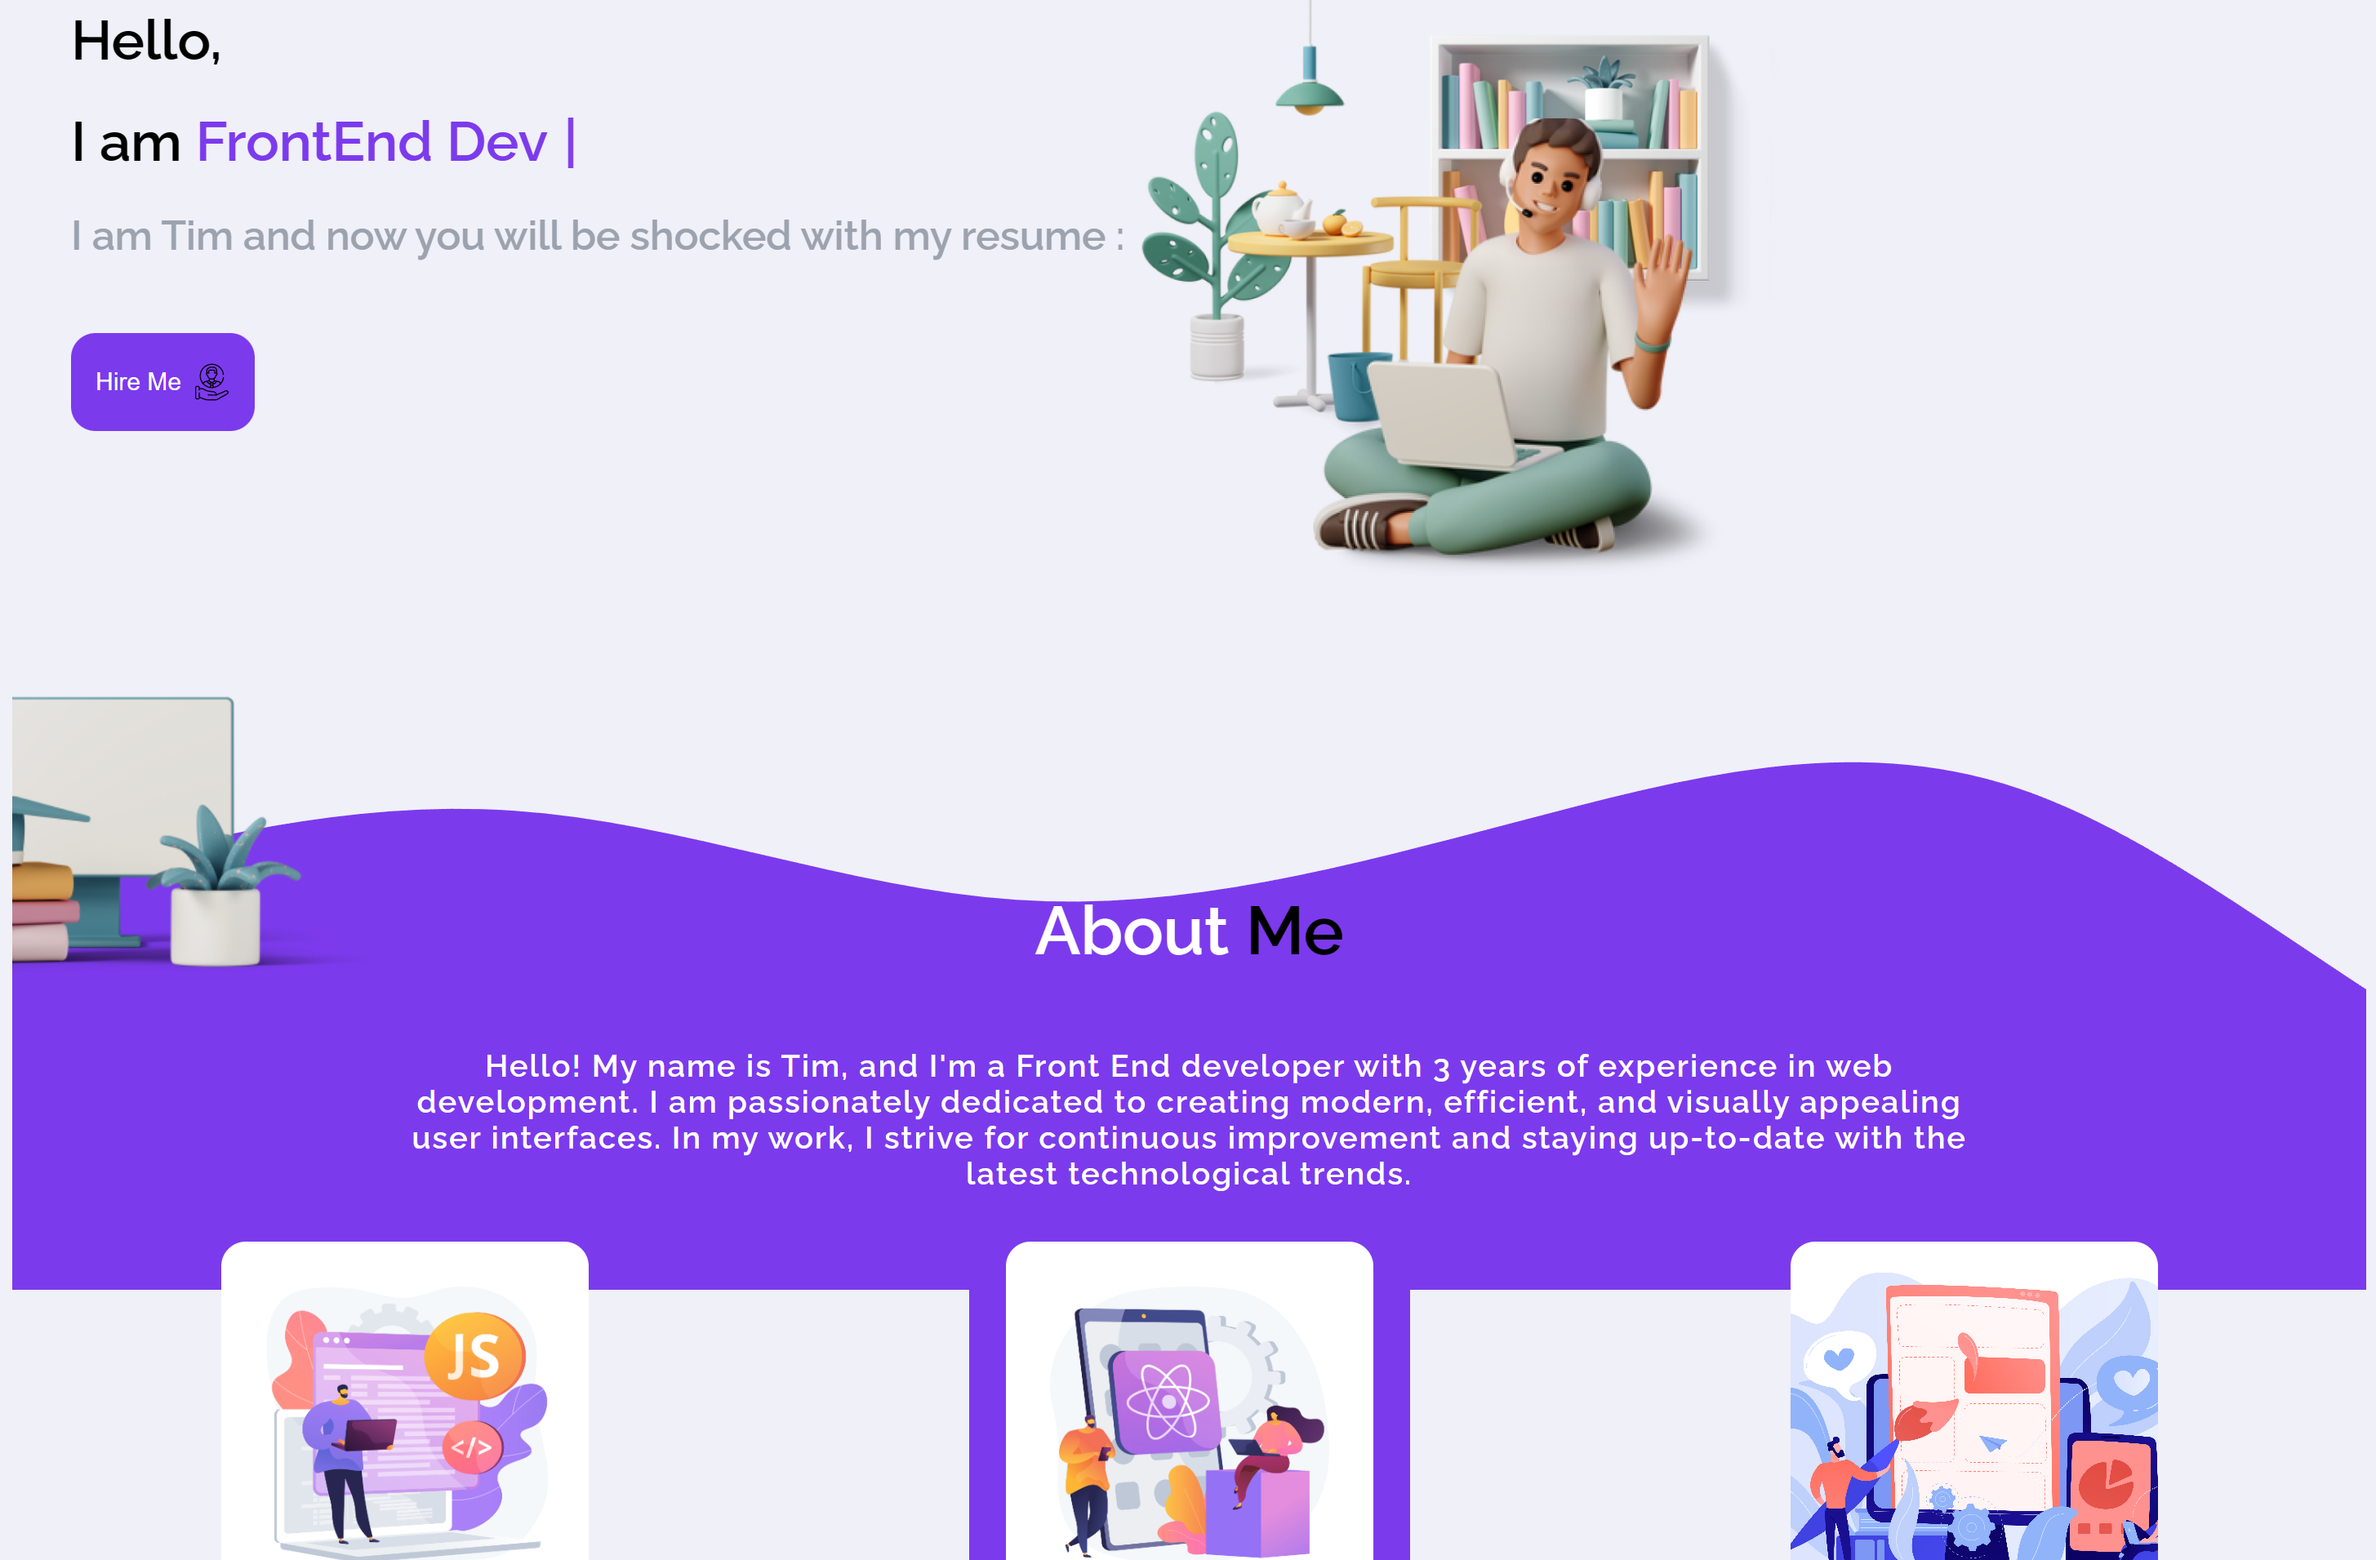
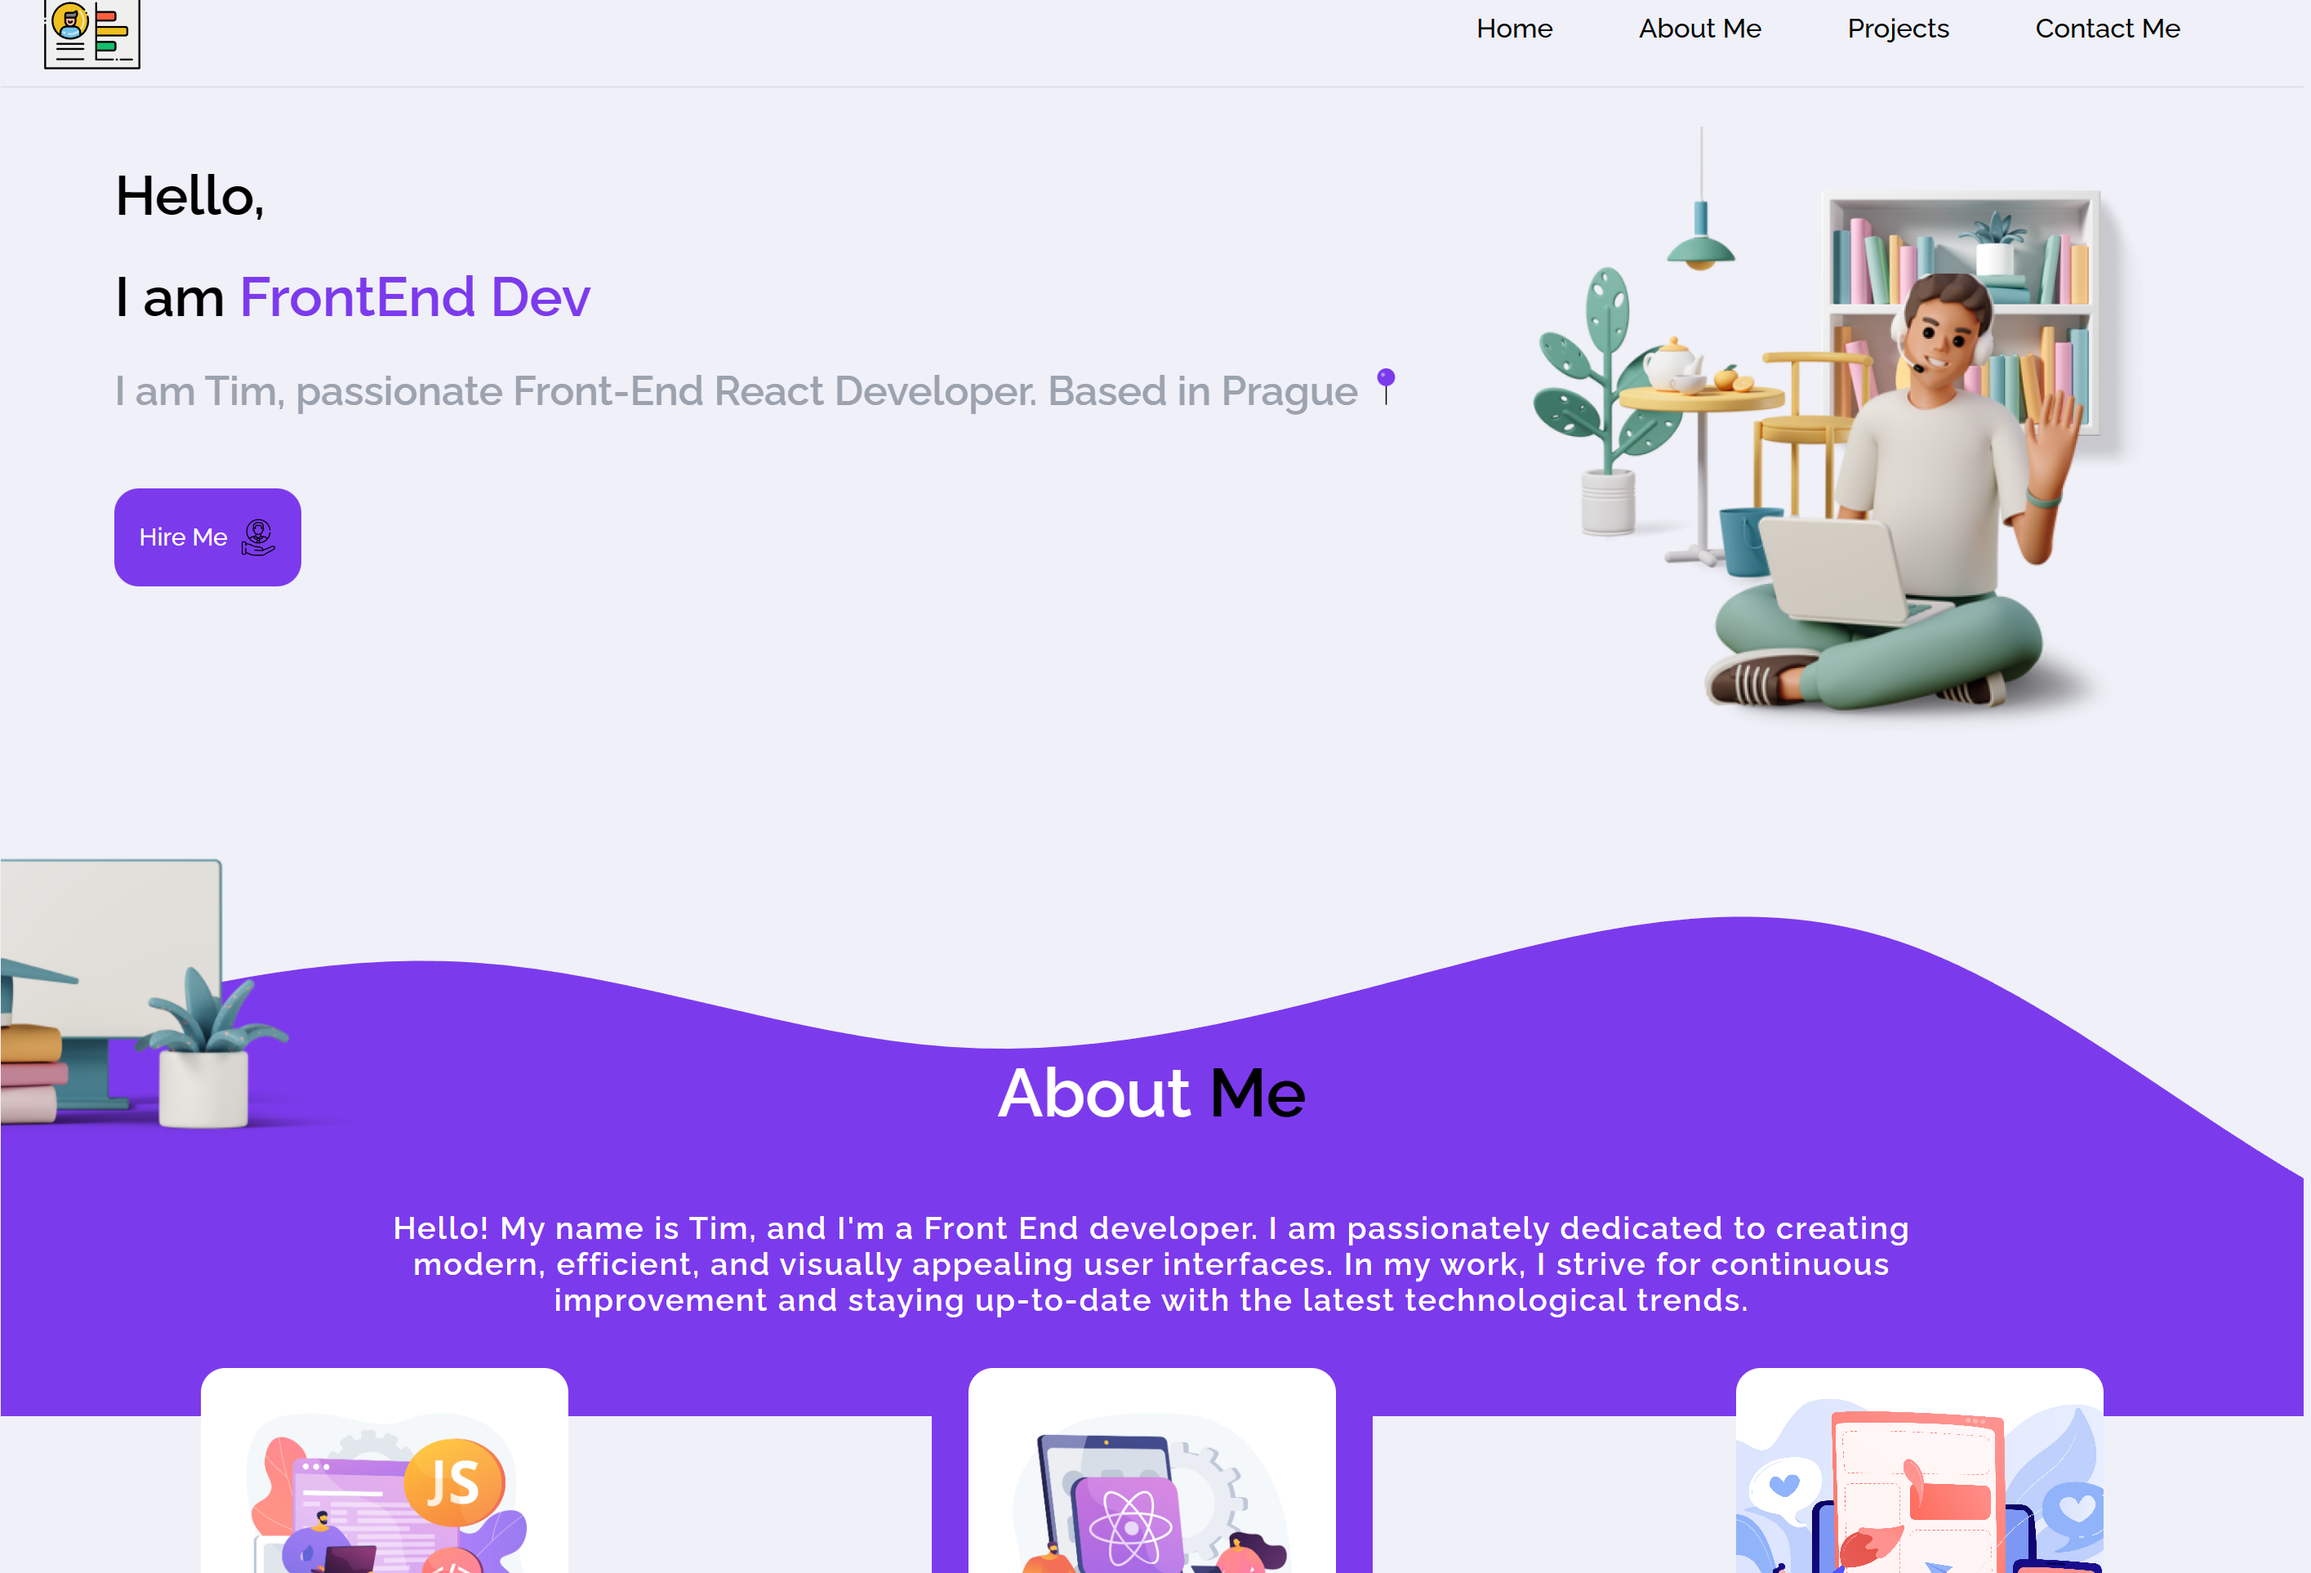
Adding projects photo & fixed header

diff --git a/src/Components/Home/Home.module.scss b/src/Components/Home/Home.module.scss
@@ -72,19 +72,15 @@
     }
 
     .homeImage {
-      width: 400px;
-      height: 600px;
-      object-fit: cover;
-      margin-top: -170px;
       display: none;
     }
     .mobileHomeImage {
       display: flex;
-      height: 350px;
-      margin-top: -100px;
+      height: 500px;
       margin-left: 70px;
-      object-fit: fill;
-      width: 300px;
+      margin-top: -100px;
+      object-fit: cover;
+      max-width: 300px;
     }
   }
 }

diff --git a/src/Components/NavBar/NavBar.module.scss b/src/Components/NavBar/NavBar.module.scss
@@ -3,6 +3,9 @@ header {
   justify-content: space-between;
   align-items: center;
   padding: 5px;
+  position: sticky;
+  top: 0;
+  z-index: 2;
 }
 
 .headerRight {
@@ -56,6 +59,7 @@ header {
   header {
     padding: 0 30px;
     border-bottom: 1px solid rgba(27, 33, 14, 0.133);
+    background-color: #f0f0f8;
   }
 
   .headerLeft {
